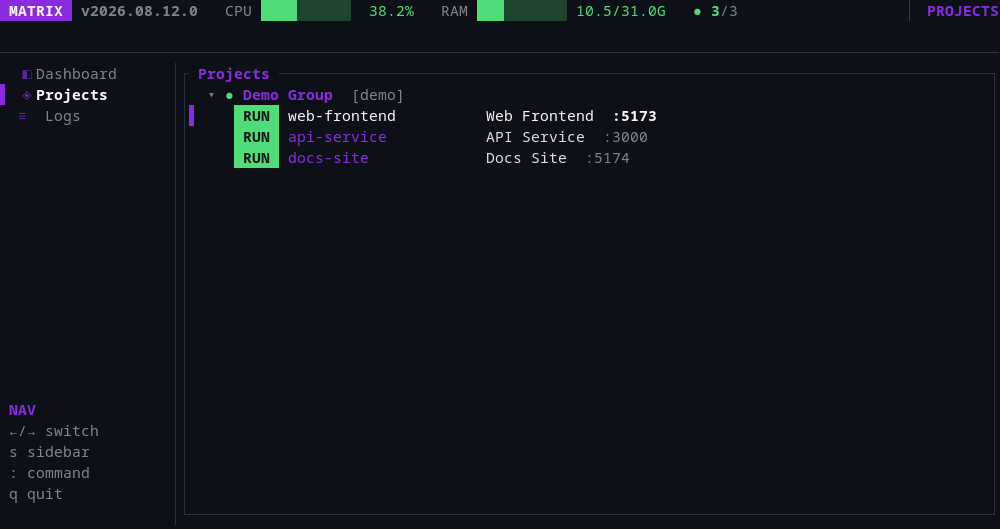
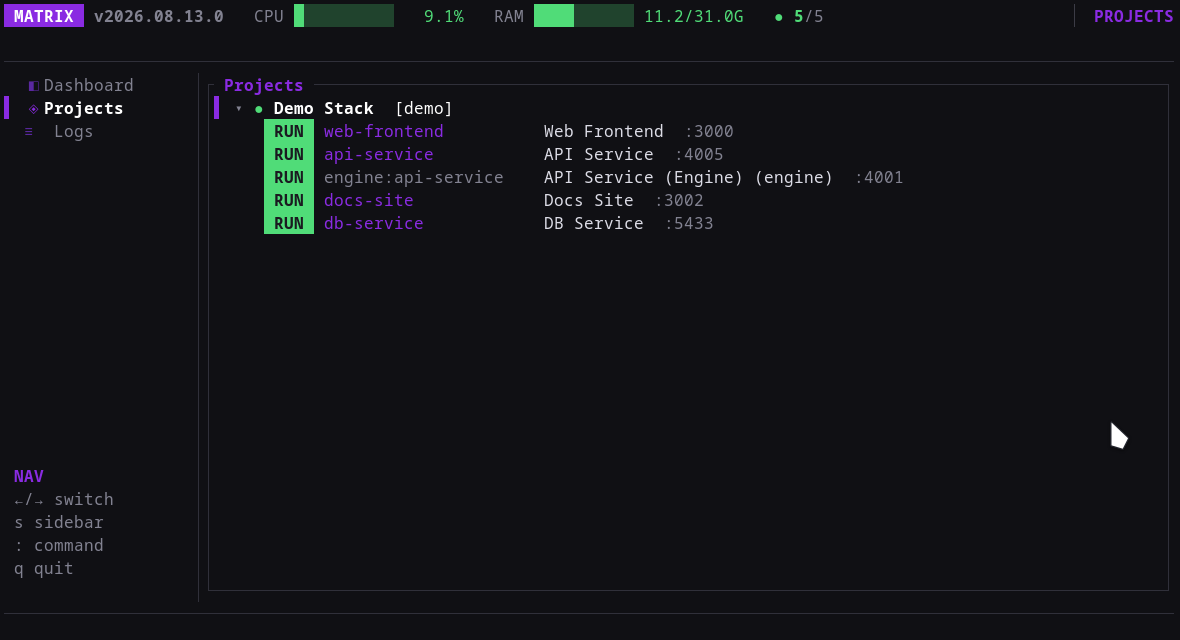
docs: add in-action screenshot gallery to README

diff --git a/README.md b/README.md
@@ -6,6 +6,20 @@ Built with **Rust** and **Ratatui**, Matrix provides a seamless, keyboard-centri
 
 ![Matrix TUI screenshot](docs/screenshot.png)
 
+### In action
+
+| Projects (groups, live status) | Dashboard (system + services) |
+|---|---|
+| ![Projects view](docs/screenshots/projects.png) | ![Dashboard view](docs/screenshots/dashboard.png) |
+
+| Logs (streaming, sources sidebar) | Command palette |
+|---|---|
+| ![Logs view](docs/screenshots/logs.png) | ![Command palette](docs/screenshots/command-mode.png) |
+
+| Detect projects (language grouping) | Env editor |
+|---|---|
+| ![Detect modal](docs/screenshots/detect.png) | ![Env editor](docs/screenshots/env-editor.png) |
+
 ---
 
 ## ✨ Features
